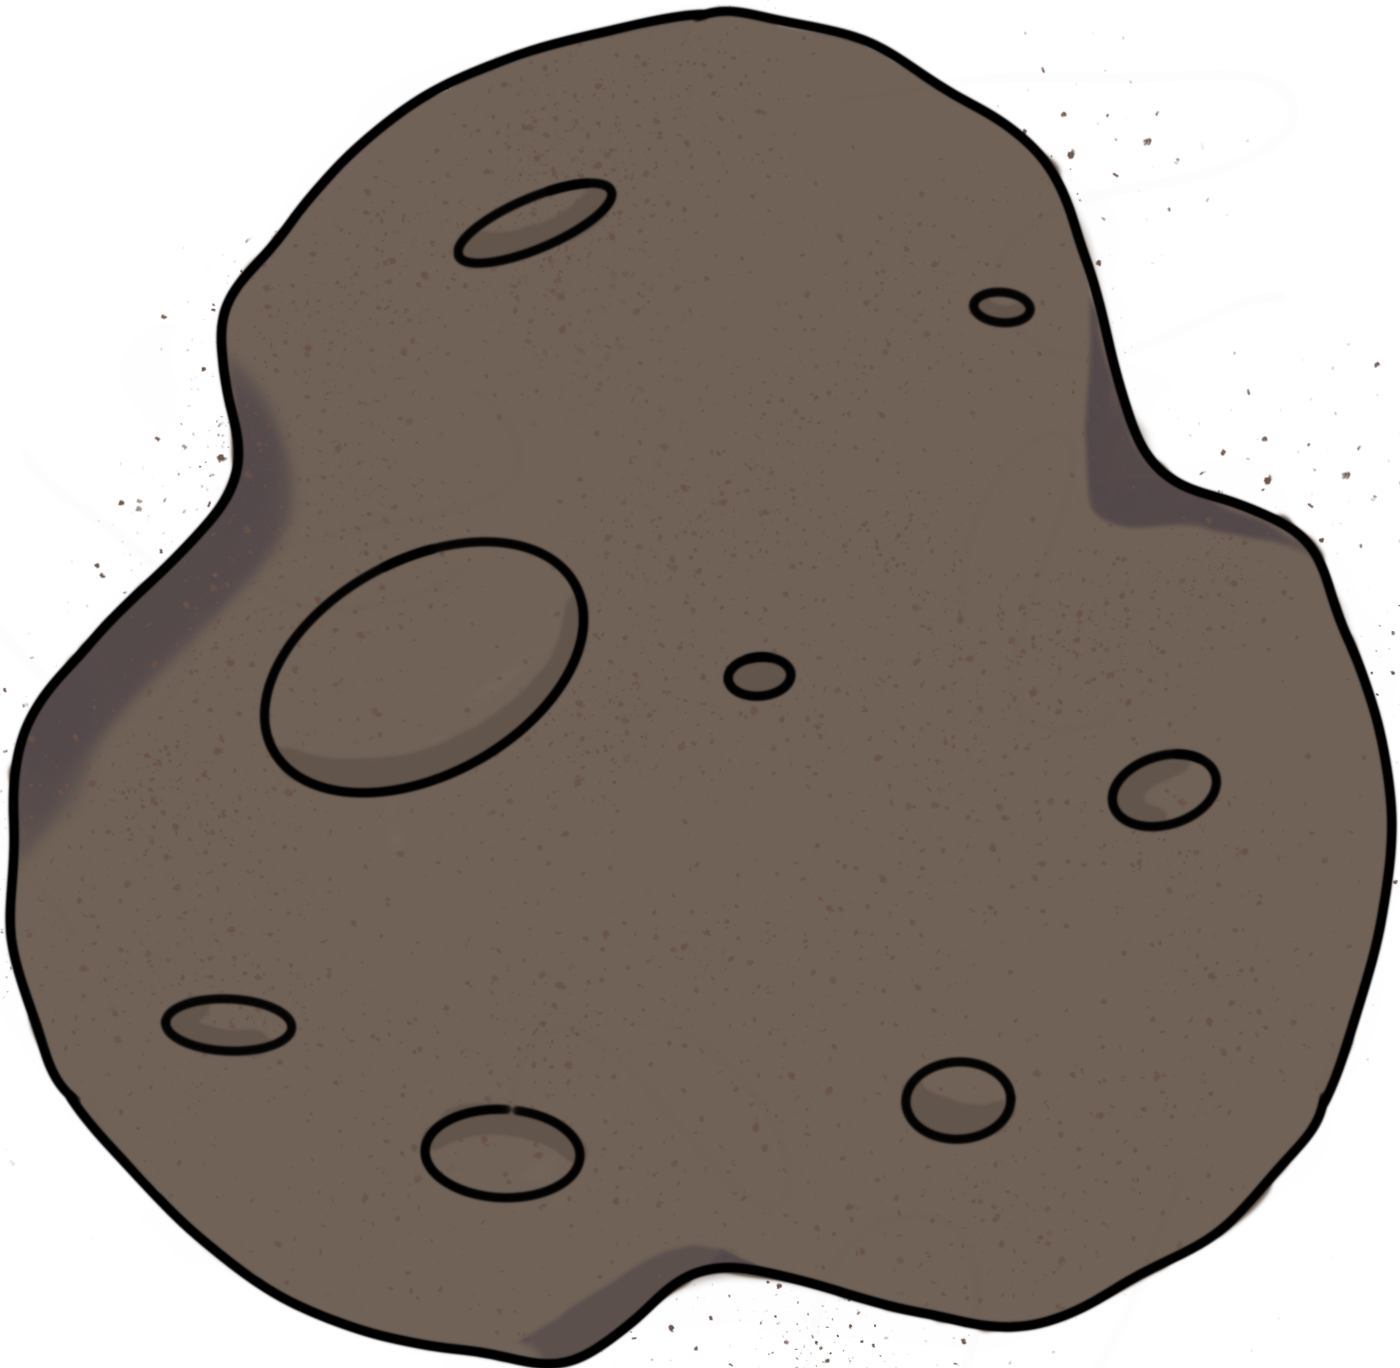
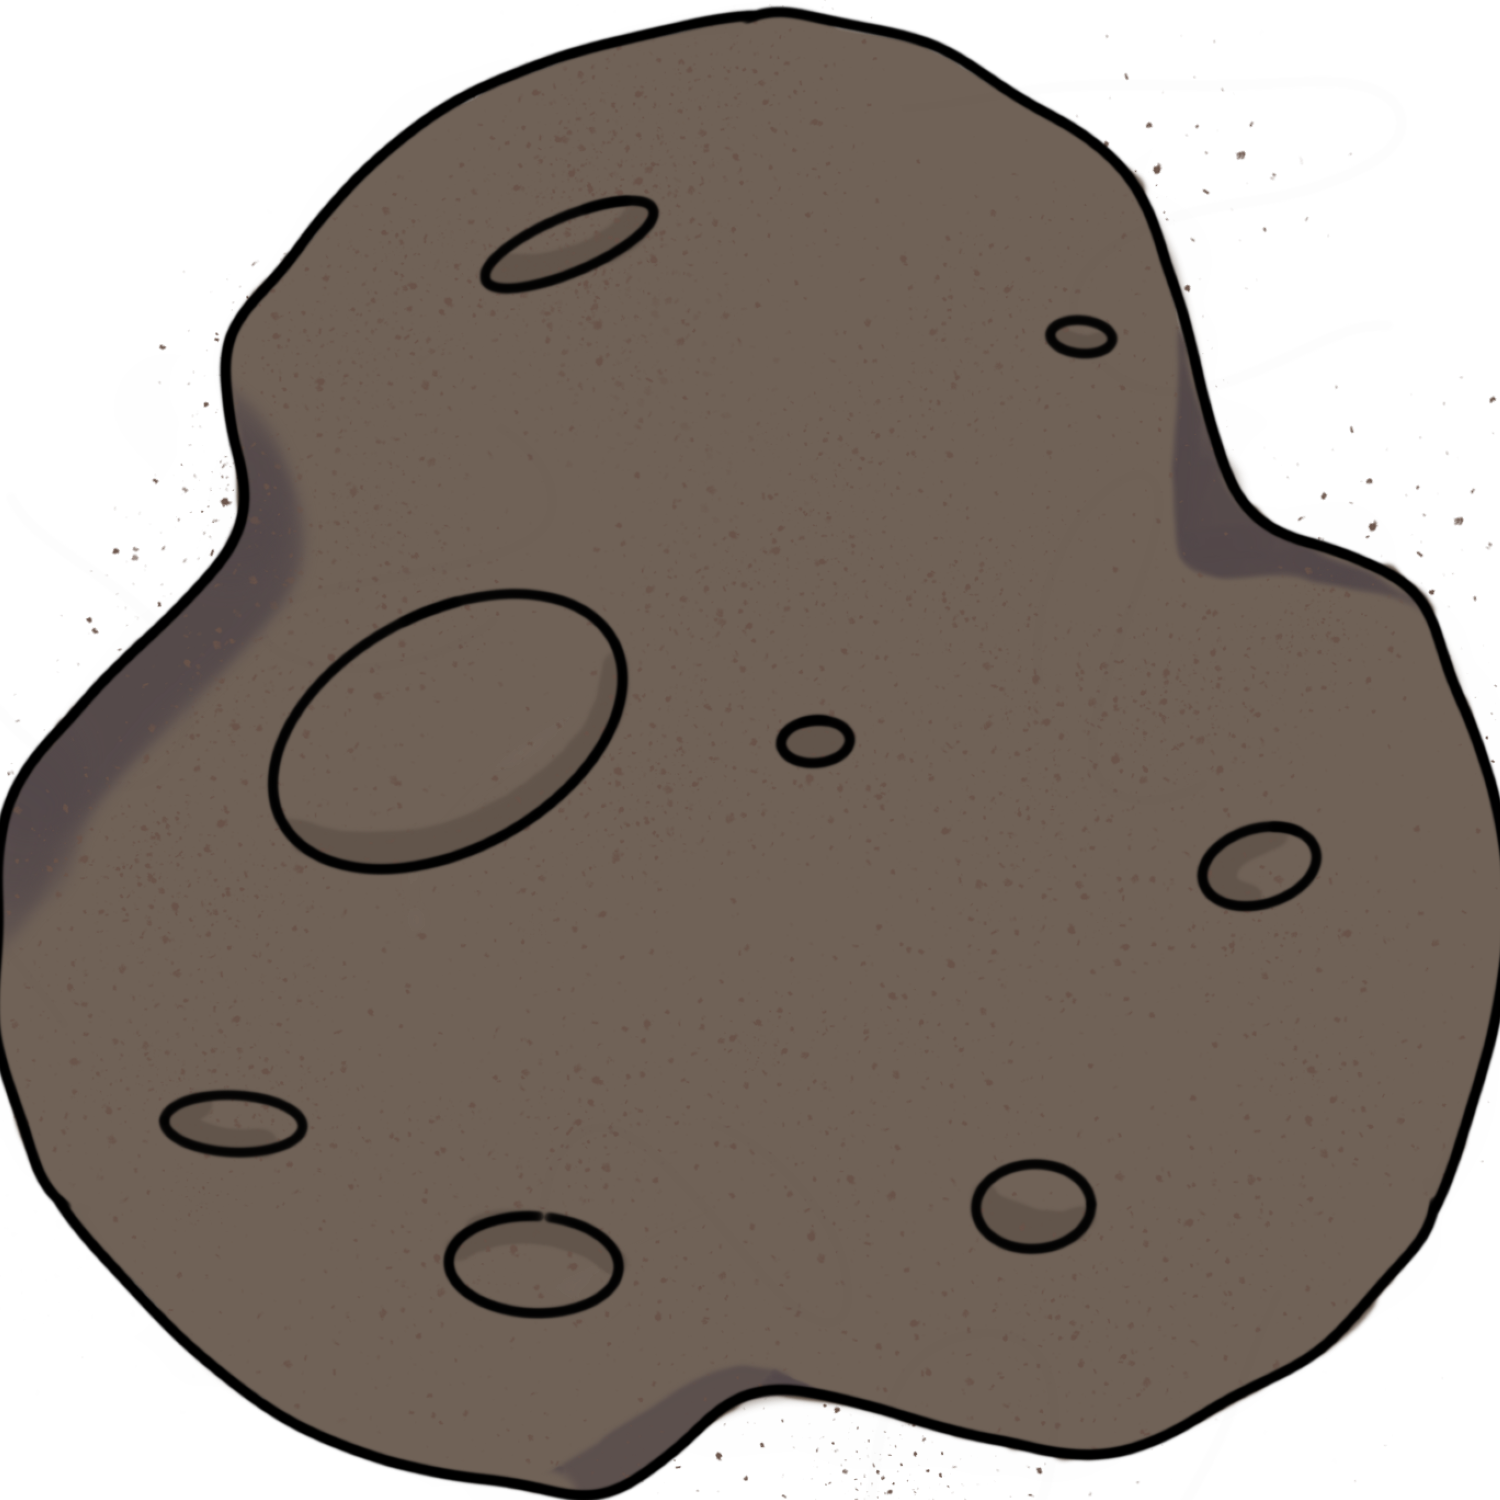
improved asteroid hitboxes and sprites

diff --git a/core/src/dev/luisc/pathfinder/levels/Level.java b/core/src/dev/luisc/pathfinder/levels/Level.java
@@ -69,7 +69,7 @@ public class Level {
         batch.draw(background, 0,0);
         for(Entity entity: entities){
             batch.draw(entity.getSprite(), entity.getPos().x, entity.getPos().y,0,0,
-                    50,50,1,1,
+                    entity.getCollisionBox().getBoundingRectangle().getWidth(),entity.getCollisionBox().getBoundingRectangle().getHeight(),1,1,
                     entity.getCollisionBox().getRotation());
         }
 
@@ -106,7 +106,7 @@ public class Level {
 
         for(Entity entity: entities){
             for(Entity entity1: entities){
-                if(!entity.equals(entity1)) CollisionHandler.isCollidingEntity(entity, entity1);
+               // if(!entity.equals(entity1)) CollisionHandler.isCollidingEntity(entity, entity1);
             }
         }
 
@@ -155,8 +155,8 @@ public class Level {
         background = new Texture(backgroundPath);
         entities = new ArrayList<>();
         for(int i = 0; i < entitiesPositions.size(); i++) {
-            int v = (int) (Math.random()*3)+1;
-            entities.add(new Entity("Asteroid_"+v+".png", new Polygon(new float[]{0,0,0,40,50,20}), null));
+            int v = (int) (Math.random()*2)+2;
+            entities.add(new Entity("Asteroid_"+v+".png", new Polygon(new float[]{0,20,0,130,20,150,120,150,140,130,140,20,120,0,20,0}), null));
             entities.get(i).setPos(entitiesPositions.get(i));
         }
         batch = new SpriteBatch();

diff --git a/core/src/dev/luisc/pathfinder/PathfinderD.java b/core/src/dev/luisc/pathfinder/PathfinderD.java
@@ -18,7 +18,7 @@ public class PathfinderD extends ApplicationAdapter {
 		camera = new OrthographicCamera();
 		camera.setToOrtho(false,Gdx.graphics.getWidth(), Gdx.graphics.getHeight());
 		camera.zoom = 0.8f;
-		//LevelIOTEST.saveTest();
+		LevelIOTEST.saveTest();
 		levelTest= LevelIOTEST.loadTest();
 		ProjectilePool.getInstance();
 
@@ -27,7 +27,7 @@ public class PathfinderD extends ApplicationAdapter {
 	@Override
 	public void render () {
 		Gdx.gl.glClearColor(255, 255, 255, 1);
-		Gdx.gl.glClear(GL20.GL_COLOR_BUFFER_BIT);
+		Gdx.gl.glClear(GL20.GL_COLOR_BUFFER_BIT | GL20.GL_DEPTH_BUFFER_BIT | (Gdx.graphics.getBufferFormat().coverageSampling?GL20.GL_COVERAGE_BUFFER_BIT_NV:0));
 
 		//TODO: MOVE THIS TO CLASS CONTROL LISTENER
 		if(Gdx.input.isKeyPressed(Input.Keys.A)){

diff --git a/core/src/dev/luisc/pathfinder/LevelIOTEST.java b/core/src/dev/luisc/pathfinder/LevelIOTEST.java
@@ -38,7 +38,7 @@ public class LevelIOTEST {
 
         ArrayList<Vector2> entities= new ArrayList<>();
         for(int i=0; i<10; i++){
-            entities.add(new Vector2(i*100+2500, i*100*(float)Math.random()+400));
+            entities.add(new Vector2(i*150+2500, i*150*(float)Math.random()+400));
         }
         Level lev = new Level(entities, new Vector2(1000,1000),new Polygon(new float[]{800,400,800,4600,4200,4600,4200,400}),"bgTest.png");
         //lev.preSerialize();

diff --git a/core/src/dev/luisc/pathfinder/entities/Entity.java b/core/src/dev/luisc/pathfinder/entities/Entity.java
@@ -44,6 +44,8 @@ public class Entity {
 
     public void postDeSerialize(){
         sprite = new Sprite(new Texture(spritePath));
+       sprite.getTexture().setFilter(Texture.TextureFilter.Linear, Texture.TextureFilter.Linear);
+
     }
 
     public void preSerialize(){

diff --git a/core/src/dev/luisc/pathfinder/entities/PlayerEntity.java b/core/src/dev/luisc/pathfinder/entities/PlayerEntity.java
@@ -1,6 +1,7 @@
 package dev.luisc.pathfinder.entities;
 
 import com.badlogic.gdx.Gdx;
+import com.badlogic.gdx.graphics.Texture;
 import com.badlogic.gdx.math.Polygon;
 import com.badlogic.gdx.math.Vector2;
 import dev.luisc.pathfinder.levels.Level;
